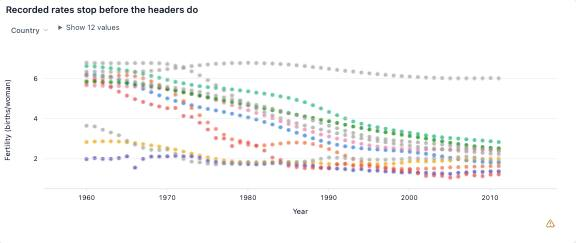
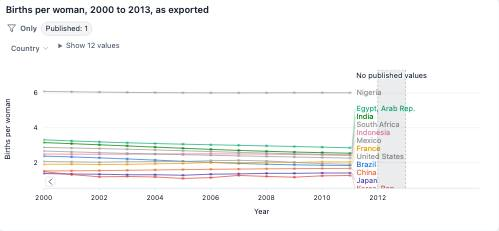
feat(daily): rewrite fertility-pace-by-decade and empty-end-years to the standard
pace-by-decade leads with the country-by-decade heatmap of yearly change,
keeps the box plot with a zero rule, and adds a rose-or-fell bar per decade.
empty-end-years zooms the paths on 2000 to 2013 with a band over the blank
years, keeps the coverage grid without cell values, and counts the last five
years. Both drop the numbered headings, the records tables, and the warnings.

diff --git a/apps/demo/public/daily-viz/projects/fertility/pace-by-decade.eda.md b/apps/demo/public/daily-viz/projects/fertility/pace-by-decade.eda.md
@@ -1,67 +1,49 @@
-# Endpoint declines can arrive at different speeds
+# Fertility fell fastest in the 1970s, at a tenth of a birth a year
 
-**Which complete decades contain the fastest average declines among the selected countries?** Each row is one country and complete named decade.
+**Which decade saw fertility fall fastest?** Each row is one of twelve countries in one complete decade, 1960s to 2000s, with the change in its total fertility rate from the decade's first year to its last and that change spread over the nine years between. The 1970s stand out: the fall in that decade was twice the 1960s pace and nearly five times the 2000s.
 
 ```eda
 eda query=decades
 country:cat=decades.country label="Country"
 decade:cat=decades.decade label="Decade"
-year:num=decades.year label="Year"
-start:num=decades.start label="Start (births/woman)"
-end:num=decades.end label="End (births/woman)"
-change:num=decades.change label="Change (births/woman)"
-annual_change:num=decades.annual_change label="Annual change (births/woman/year)"
-valid:num=decades.valid label="Years published"
+year:num=decades.year label="Decade start"
+start:num=decades.start label="Start (births per woman)"
+end:num=decades.end label="End (births per woman)"
+change:num=decades.change label="Change (births per woman)"
+annual_change:num=decades.annual_change label="Change per year (births per woman)"
+calc direction = change > 0 ? "Rose" : "Fell"
 ```
 
-## 1. A country-by-decade view of pace
+## China's 1970s is the darkest cell
 
-Each cell is already one prepared country-decade observation. The chart’s average therefore returns that cell’s value rather than averaging several undisclosed records.
+Each cell is one country's yearly pace through one decade: red for a fall, deeper red for a faster one, and blue where the rate rose. China's yearly change through the 1970s was -0.295 births per woman, the run-up to the one-child policy, and no other cell comes close. Mexico and Korea follow in the same column. The 1960s have both the pale cells of countries that had not started falling and Korea's early plunge.
 
 ```eda
-heatmap @nb-fertility-pace-by-decade-chart-1 country columnField=decade aggregation=average measureField=annual_change title="A country-by-decade view of pace"
+heatmap @nb-fertility-pace-by-decade-chart-1 country columnField=decade aggregation=average measureField=annual_change sortBy=label title="Change in births per woman per year, by country and decade"
 ```
 
-## 2. Pace varies within the same decade
+## The 1970s box sits lowest
 
-The distribution across countries shows what an unweighted decade mean would conceal. Equal country weights are a deliberate analytical choice.
+Each box holds twelve countries' yearly pace in one decade. Across the twelve, the average pace was -0.104 births per woman a year in the 1970s. In the 1960s it was -0.050, and by the 2000s it was -0.022. Only the 1970s box lies entirely below zero: every country fell that decade.
 
 ```eda
-boxplot @nb-fertility-pace-by-decade-chart-2 annual_change color=decade title="Pace varies within the same decade" y.title="Annual change (births/woman/year)"
+boxplot @nb-fertility-pace-by-decade-chart-2 annual_change color=decade title="Yearly change in births per woman, twelve countries per decade" y.title="Change per year (births per woman)" {
+  rule y=0 "No change"
+}
 ```
 
-**Finding.** The selected-country mean pace in the 1960s was -0.050 births per woman per elapsed year.
+## Eight country-decades went up, not down
 
-## 3. Starting fertility and subsequent decade change
-
-A lower starting value leaves a different numerical range for a decline. This plot describes that context without assigning a causal explanation.
+Each bar counts the twelve countries in a decade by whether their rate rose or fell. 8 of the 60 country-decades rose. Nigeria's rate rose through the 1960s and 1970s, before anyone else's had finished falling. The other six are low-fertility countries drifting back up: Japan and the United States once each, and China, France, and Japan again in the 2000s.
 
 ```eda
-scatter @nb-fertility-pace-by-decade-chart-3 x=start y=change color=decade title="Starting fertility and subsequent decade change" x.title="Start (births/woman)" y.title="Change (births/woman)"
-```
-
-## 4. Check the annual observation count
-
-The count verifies whether a named decade has the intended annual support. It does not imply that annual observations are independent.
-
-```eda
-scatter @nb-fertility-pace-by-decade-chart-4 x=year y=valid color=country title="Check the annual observation count" x.title="Year" y.title="Years published"
-```
-
-**Finding.** The corresponding pace in the 2000s was -0.022 births per woman per elapsed year.
-
-## 5. The rows behind the charts
-
-Sort a column or select rows to check any value above. Selections in a notebook stay with their own chart.
-
-```eda
-table @nb-fertility-pace-by-decade-records country,decade,valid,start,end,change,annual_change title="Records behind this comparison"
+bar @nb-fertility-pace-by-decade-chart-3 decade seriesField=direction seriesLayout=stacked color=direction title="Countries whose rate rose or fell, by decade" y.title="Countries"
 ```
 
 ## Takeaway
 
-Comparing pace retains more timing than one long endpoint difference, but still erases changes within each decade. Keep the elapsed-year denominator visible.
+The great fertility decline was front-loaded: the 1970s did twice the work of the decade before and five times the work of the 2000s. By the 2000s most of the twelve were near two births per woman, and the rises there are the rebound of countries that had already fallen below replacement.
 
 ## Limits
 
-A decade’s first and last observations are nine elapsed years apart, not ten. The annualized difference is linear, not a compound growth rate. The incomplete 2010s are deliberately excluded.
+A decade's pace is its last reading minus its first over nine elapsed years, so a reversal inside a decade is averaged away. The 2010s are left out because the export ends in 2011. Twelve countries, each counted once.

diff --git a/apps/demo/public/daily-viz/projects/fertility/empty-end-years.eda.md b/apps/demo/public/daily-viz/projects/fertility/empty-end-years.eda.md
@@ -1,67 +1,48 @@
-# An empty 2012 column is not a fertility collapse
+# The 2012 and 2013 columns are empty, not zero
 
-**What happens to an average when the last year of an export is blank?** Each row is one selected country-year.
+**What do an export's blank last years do to a chart?** Each row is one of twelve countries in one year from 1960 to 2013, with its total fertility rate or a blank. The file's headers run to 2013, but no country has a value after 2011. A chart that reads blanks as zero shows fertility collapsing in a year; one that carries 2011 forward invents two years of data. This export keeps the blanks blank.
 
 ```eda
 eda query=r
 country:cat=r.country label="Country"
-code:cat=r.code label="Code"
 year:num=r.year label="Year"
-fertility:num=r.fertility label="Fertility (births/woman)"
-decade:cat=r.decade label="Decade"
-year_label:cat=r.year_label label="Year (as a category)"
-coverage:cat=r.coverage label="Coverage"
-observed:num=r.observed label="Published (1) or missing (0)"
+fertility:num=r.fertility label="Births per woman"
+year_label:cat=r.year_label label="Year"
+coverage:cat=r.coverage label="Cell"
+observed:num=r.observed label="Published"
 ```
 
-## 1. Recorded rates stop before the headers do
+## Every path stops at 2011
 
-The axis can contain dates without measured points. Do not connect a null to zero or carry the previous observation forward without declaring an imputation model.
+Each path is one country's last twelve years, and every one ends at the same point. The axis runs to 2013 because the file does, and the shaded band is what the file holds there: nothing. In the 2012 rows, 100.0% of values are missing. In the 2011 rows, 0.0% are.
 
 ```eda
-scatter @nb-fertility-empty-end-years-chart-1 x=year y=fertility color=country title="Recorded rates stop before the headers do" x.title="Year" y.title="Fertility (births/woman)"
+scatter @nb-fertility-empty-end-years-chart-1 x=year y=fertility color=country title="Births per woman, 2000 to 2013, as exported" x.title="Year" y.title="Births per woman" x.min=2000 x.max=2013 where.observed=1 {
+  connect.orderField=year connect.groupField=country connect.labels=end pointSize=2
+  band x=2012..2013 "No published values"
+}
 ```
 
-## 2. Published and missing cells in each year
+## Two blank columns in a full grid
 
-Count each selected country-year once and split the count by value availability. The missing segment records null source cells; it does not replace the missing rate with zero.
+Each cell is one country-year, dark where the file holds a value. Fifty-two columns are full and the last two are empty for every country, so the gap is the export's, not any one country's. 624 of the 648 country-years hold a value, and the 24 that do not all sit in 2012 and 2013.
 
 ```eda
-bar @nb-fertility-empty-end-years-chart-2 year_label seriesField=coverage seriesLayout=stacked color=coverage title="Published and missing cells in each year"
+heatmap @nb-fertility-empty-end-years-chart-2 country columnField=year_label maxColumns=60 aggregation=average measureField=observed sortBy=label showValues=false title="Country-years with a published rate, 1960 to 2013"
 ```
 
-**Finding.** In the selected 2012 rows, the missing-value share was 100.0%.
+## Twelve, twelve, twelve, zero, zero
 
-## 3. Published versus missing source values
-
-Count the two availability categories across the entire fixed country-year grid. This makes the missing-rate denominator explicit without deleting the incomplete rows.
+The last five years of the file, counted by whether each country-year holds a value. Twelve countries report through 2011; then the count drops to zero, not because fertility did anything but because the export ends. Overall, 3.70% of the file's cells are blank, every one of them in these two columns.
 
 ```eda
-row @nb-fertility-empty-end-years-chart-3 coverage title="Published versus missing source values" x.title="Rows"
-```
-
-## 4. Coverage by country and year
-
-Each cell has one selected country-year: one means a published rate and zero means a null rate. These are measurement-availability indicators, not imputed fertility values.
-
-```eda
-heatmap @nb-fertility-empty-end-years-chart-4 country columnField=year_label maxColumns=60 aggregation=average measureField=observed title="Coverage by country and year"
-```
-
-**Finding.** In the selected 2011 rows, the missing-value share was 0.0%.
-
-## 5. The rows behind the charts
-
-Sort a column or select rows to check any value above. Selections in a notebook stay with their own chart.
-
-```eda
-table @nb-fertility-empty-end-years-records country,code,year,fertility,decade title="Records behind this comparison"
+bar @nb-fertility-empty-end-years-chart-3 year_label seriesField=coverage seriesLayout=stacked color=coverage title="Country-years by whether a rate was published, 2009 to 2013" y.title="Country-years" where.year=2009..
 ```
 
 ## Takeaway
 
-Data coverage is part of the result. Keeping blank end years prevents a chart from inventing a decline to zero or presenting a carried-forward value as a fresh observation.
+The file ends in 2011; the headers end in 2013. Read the blanks as zero and twelve countries' fertility collapses in a year; carry 2011 forward and two years of data appear from nowhere. Leaving the cells empty is the only honest option, and it costs two columns of white space.
 
 ## Limits
 
-The export is a historical snapshot. Empty values mean unavailable in this file, not zero births per woman and not necessarily unavailable from later source revisions. The country subset is illustrative.
+This is a snapshot of a historical export, so the blanks say the values were unavailable in this file, not that they are unavailable now. Twelve countries chosen for contrast, not a sample.
